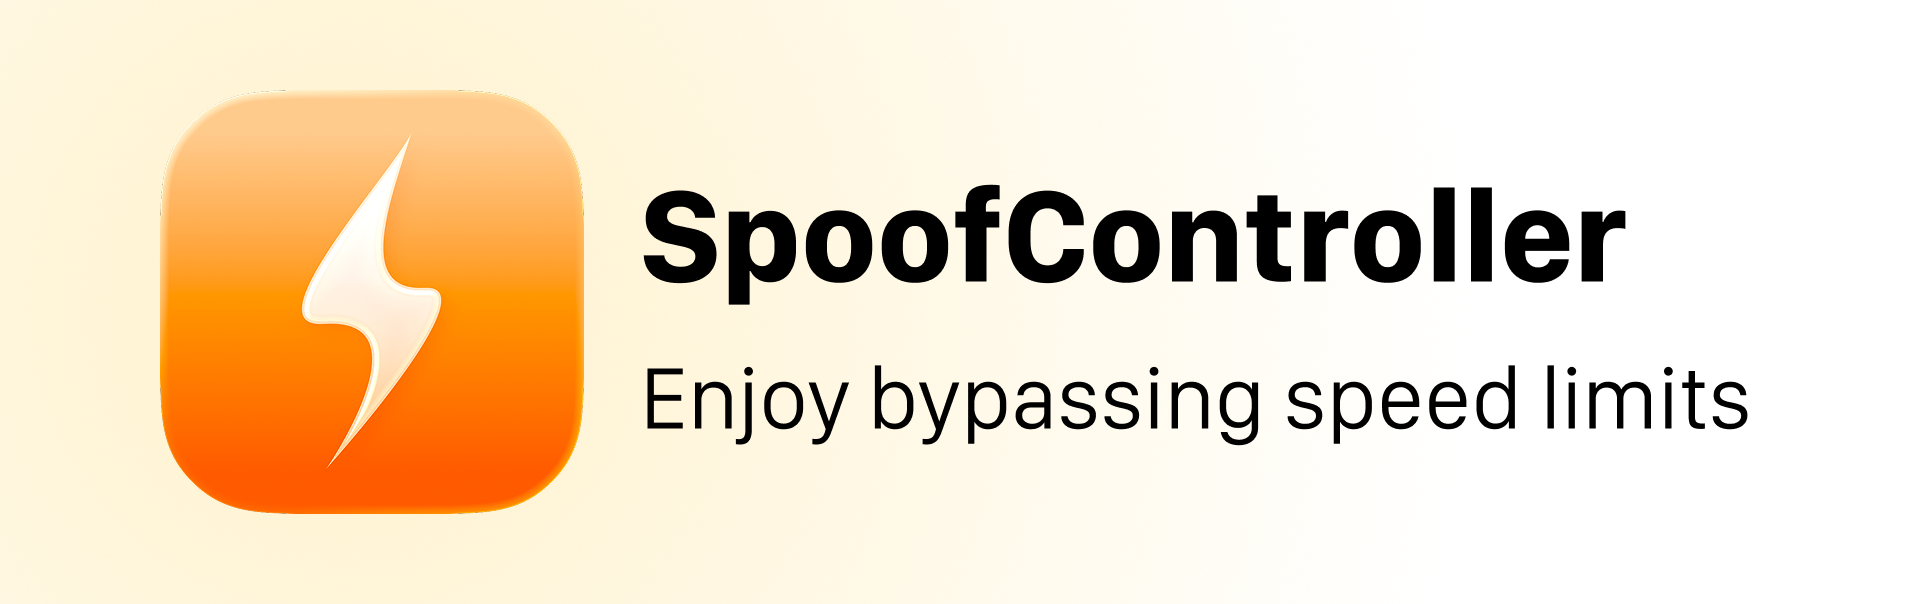
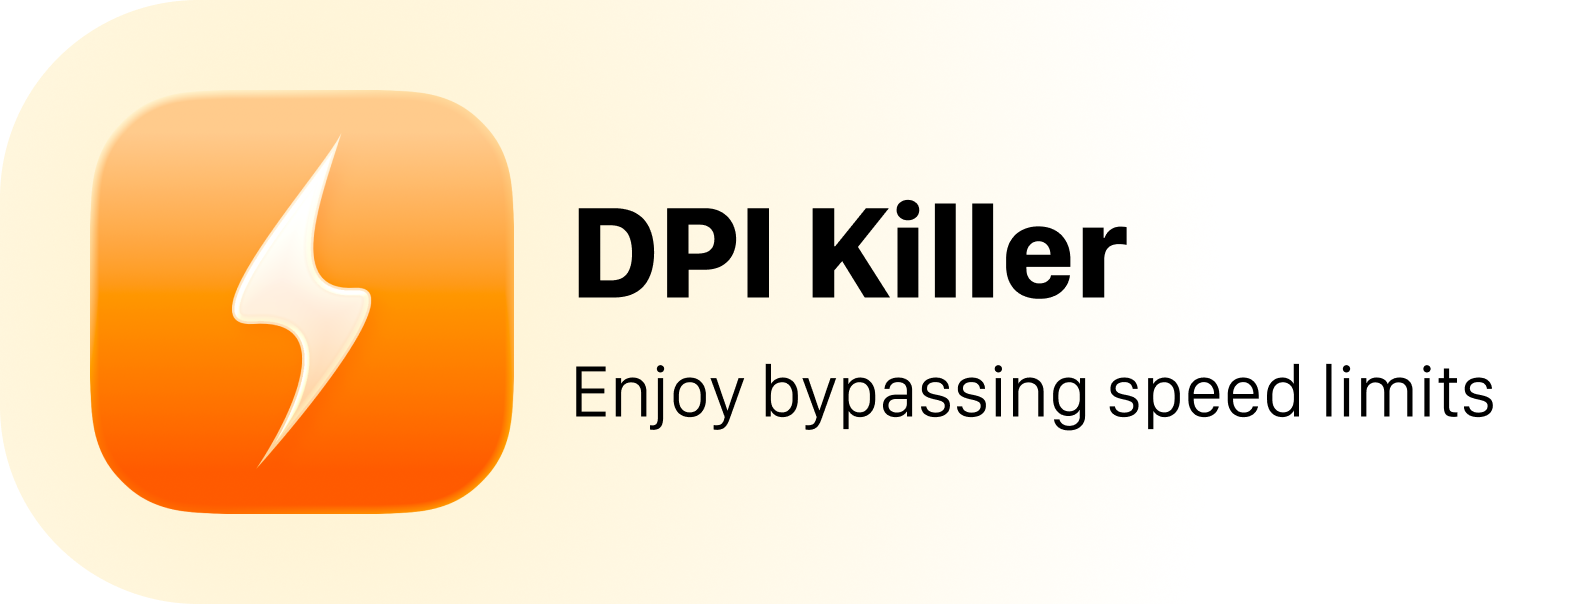
renamed to dpi killer

diff --git a/main.swift b/main.swift
@@ -181,9 +181,9 @@ class SettingsStore {
         let appPath = Bundle.main.bundlePath
         let script: String
         if enabled {
-            script = "tell application \"System Events\" to make login item at end with properties {path:\"\(appPath)\", hidden:false, name:\"SpoofController\"}"
+            script = "tell application \"System Events\" to make login item at end with properties {path:\"\(appPath)\", hidden:false, name:\"DPI Killer\"}"
         } else {
-            script = "tell application \"System Events\" to delete (every login item whose name is \"SpoofController\")"
+            script = "tell application \"System Events\" to delete (every login item whose name is \"DPI Killer\")"
         }
         
         let process = Process()
@@ -209,8 +209,8 @@ class SettingsStore {
 }
 
 // MARK: - Spoof Manager
-class SpoofManager {
-    static let shared = SpoofManager()
+class DPIKillerManager {
+    static let shared = DPIKillerManager()
     private(set) var process: Process?
     private var installProcess: Process?
     private(set) var isRunning = false
@@ -547,10 +547,10 @@ class SettingsWindowController: NSWindowController {
                                         dnsMode: SettingsStore.shared.dnsMode,
                                         dnsHttpsUrl: SettingsStore.shared.dnsHttpsUrl)
         
-        if SpoofManager.shared.isRunning {
-            SpoofManager.shared.stop()
+        if DPIKillerManager.shared.isRunning {
+            DPIKillerManager.shared.stop()
             DispatchQueue.main.asyncAfter(deadline: .now() + 0.5) {
-                SpoofManager.shared.start { _, _ in 
+                DPIKillerManager.shared.start { _, _ in 
                     (NSApp.delegate as? AppDelegate)?.refreshUI()
                 }
             }
@@ -636,7 +636,7 @@ class LoadingWindowController: NSWindowController {
         let visualEffect = NSVisualEffectView(frame: container.bounds); visualEffect.blendingMode = .behindWindow; visualEffect.material = .underWindowBackground; visualEffect.state = .active
         container.addSubview(visualEffect)
         if let icon = NSApp.applicationIconImage { let iconView = NSImageView(frame: NSRect(x: 130, y: 85, width: 80, height: 80)); iconView.image = icon; container.addSubview(iconView) }
-        let label = NSTextField(labelWithString: "SpoofController"); label.font = .systemFont(ofSize: 22, weight: .semibold); label.frame = NSRect(x: 0, y: 55, width: 340, height: 30); label.alignment = .center; container.addSubview(label)
+        let label = NSTextField(labelWithString: "DPI Killer"); label.font = .systemFont(ofSize: 22, weight: .semibold); label.frame = NSRect(x: 0, y: 55, width: 340, height: 30); label.alignment = .center; container.addSubview(label)
         let sublabel = NSTextField(labelWithString: L10n.shared.preparingBypass); sublabel.font = .systemFont(ofSize: 13, weight: .medium); sublabel.textColor = .secondaryLabelColor
         sublabel.frame = NSRect(x: 0, y: 35, width: 340, height: 20); sublabel.alignment = .center; self.sublabel = sublabel; container.addSubview(sublabel)
         let indicator = NSProgressIndicator(frame: NSRect(x: 100, y: 15, width: 140, height: 20)); indicator.style = .bar; indicator.isIndeterminate = true; indicator.startAnimation(nil); container.addSubview(indicator)
@@ -669,7 +669,7 @@ class AppDelegate: NSObject, NSApplicationDelegate {
     }
 
     func attemptStart() {
-        SpoofManager.shared.start { [weak self] success, error in
+        DPIKillerManager.shared.start { [weak self] success, error in
             self?.loadingWindow?.closeWithFade {
                 self?.loadingWindow = nil; self?.refreshUI()
                 if !success {
@@ -692,9 +692,9 @@ class AppDelegate: NSObject, NSApplicationDelegate {
     private func performInstallation() {
         if loadingWindow == nil { loadingWindow = LoadingWindowController() }
         loadingWindow?.updateStatus(L10n.shared.installing, showCancel: true)
-        loadingWindow?.cancelHandler = { [weak self] in SpoofManager.shared.cancelInstall(); self?.loadingWindow?.closeWithFade { self?.loadingWindow = nil; self?.refreshUI() } }
+        loadingWindow?.cancelHandler = { [weak self] in DPIKillerManager.shared.cancelInstall(); self?.loadingWindow?.closeWithFade { self?.loadingWindow = nil; self?.refreshUI() } }
         loadingWindow?.showWithFade()
-        SpoofManager.shared.install { [weak self] success, error in
+        DPIKillerManager.shared.install { [weak self] success, error in
             self?.loadingWindow?.closeWithFade {
                 self?.loadingWindow = nil; self?.refreshUI()
                 if success { let s = NSAlert(); s.messageText = L10n.shared.installComplete; s.informativeText = L10n.shared.installSuccess; NSApp.activate(ignoringOtherApps: true); s.runModal(); self?.attemptStart() }
@@ -713,7 +713,7 @@ class AppDelegate: NSObject, NSApplicationDelegate {
         DispatchQueue.main.async { [weak self] in
             guard let self = self else { return }
             if let button = self.statusItem?.button {
-                let isRunning = SpoofManager.shared.isRunning
+                let isRunning = DPIKillerManager.shared.isRunning
                 if self.iconCache[isRunning] == nil { self.iconCache[isRunning] = self.createStatusIcon(isRunning: isRunning) }
                 button.image = self.iconCache[isRunning]; button.imagePosition = .imageOnly
             }
@@ -730,10 +730,10 @@ class AppDelegate: NSObject, NSApplicationDelegate {
     }
 
     func setupMenu() {
-        let menu = NSMenu(); let status = SpoofManager.shared.isRunning ? L10n.shared.statusActive : L10n.shared.statusStopped
+        let menu = NSMenu(); let status = DPIKillerManager.shared.isRunning ? L10n.shared.statusActive : L10n.shared.statusStopped
         menu.addItem(NSMenuItem(title: status, action: nil, keyEquivalent: ""))
         menu.addItem(NSMenuItem.separator())
-        menu.addItem(NSMenuItem(title: SpoofManager.shared.isRunning ? L10n.shared.stop : L10n.shared.start, action: #selector(toggle), keyEquivalent: "t"))
+        menu.addItem(NSMenuItem(title: DPIKillerManager.shared.isRunning ? L10n.shared.stop : L10n.shared.start, action: #selector(toggle), keyEquivalent: "t"))
         menu.addItem(NSMenuItem(title: L10n.shared.settings, action: #selector(showSettings), keyEquivalent: ","))
         menu.addItem(NSMenuItem(title: L10n.shared.instructions, action: #selector(showHelp), keyEquivalent: "h"))
         menu.addItem(NSMenuItem.separator())
@@ -742,8 +742,8 @@ class AppDelegate: NSObject, NSApplicationDelegate {
     }
 
     @objc func toggle() {
-        if SpoofManager.shared.isRunning { SpoofManager.shared.stop() }
-        else { SpoofManager.shared.start { [weak self] s, e in if !s { let a = NSAlert(); a.messageText = L10n.shared.failedToStart; a.informativeText = e ?? "Check settings."; NSApp.activate(ignoringOtherApps: true); a.runModal() }; self?.refreshUI() } }
+        if DPIKillerManager.shared.isRunning { DPIKillerManager.shared.stop() }
+        else { DPIKillerManager.shared.start { [weak self] s, e in if !s { let a = NSAlert(); a.messageText = L10n.shared.failedToStart; a.informativeText = e ?? "Check settings."; NSApp.activate(ignoringOtherApps: true); a.runModal() }; self?.refreshUI() } }
         refreshUI()
     }
 
@@ -751,8 +751,8 @@ class AppDelegate: NSObject, NSApplicationDelegate {
     @objc func showHelp() { if helpWindow == nil { helpWindow = HelpWindowController() }; NSApp.activate(ignoringOtherApps: true); helpWindow?.showWindow(nil) }
     
     func applicationWillTerminate(_ notification: Notification) {
-        if let p = SpoofManager.shared.process { p.terminate(); p.waitUntilExit() }
-        SpoofManager.shared.stop()
+        if let p = DPIKillerManager.shared.process { p.terminate(); p.waitUntilExit() }
+        DPIKillerManager.shared.stop()
     }
 
     private func setupSignalHandlers() {
@@ -760,7 +760,7 @@ class AppDelegate: NSObject, NSApplicationDelegate {
         for sig in signals {
             signal(sig, SIG_IGN)
             let source = DispatchSource.makeSignalSource(signal: sig, queue: .main)
-            source.setEventHandler { SpoofManager.shared.stop(); exit(0) }
+            source.setEventHandler { DPIKillerManager.shared.stop(); exit(0) }
             source.resume()
         }
     }

diff --git a/README.md b/README.md
@@ -1,7 +1,7 @@
-# SpoofController ⚡
+# DPI Killer ⚡
 
 <p align="left">
-  <img src="assets/banner.png" alt="SpoofController Banner" width="800">
+  <img src="assets/banner.png" alt="DPI Killer Banner" width="800">
 </p>
 
 <p align="left">
@@ -14,7 +14,7 @@
 ## English 🇺🇸
 ### Professional macOS GUI for `spoofdpi` — Bypass DPI & Remove Throttling
 
-**SpoofController** is a lightweight, high-performance macOS application built to bypass DPI censorship, unblock websites, and remove ISP throttling.
+**DPI Killer** is a lightweight, high-performance macOS application built to bypass DPI censorship, unblock websites, and remove ISP throttling.
 
 > Love sharing internet from your phone but hate it when your ISP throttles the speed? Many solutions have been tried over the years. This one is simply convenient for Mac users. If you're on Windows... well, my condolences. 😉
 
@@ -29,19 +29,19 @@ It is a **GoodbyeDPI Mac alternative** that restores access to YouTube and block
 - **Advanced Settings**: Configure TTL and Window Size values for specialized bypass scenarios.
 
 ### Setup
-1. **Download**: Get `.dmg` from [Releases](https://github.com/iddictive/SpoofController/releases).
+1. **Download**: Get `.dmg` from [Releases](https://github.com/iddictive/DPIKiller/releases).
 2. **Install**: Drag to `Applications`.
 3. **Run**: Opens with auto-setup.
 
 ### VPN Compatibility
-To use SpoofController alongside a VPN (like Shadowrocket, AdGuard, etc.):
-1. **Disable `Use system-wide proxy`** in SpoofController Settings.
+To use DPI Killer alongside a VPN (like Shadowrocket, AdGuard, etc.):
+1. **Disable `Use system-wide proxy`** in DPI Killer Settings.
 2. Configure your VPN to use `127.0.0.1:8080` (or your custom port) as the **upstream (parent) proxy**.
-3. This allows the VPN to handle routing while SpoofController handles DPI bypassing.
+3. This allows the VPN to handle routing while DPI Killer handles DPI bypassing.
 
 ### Uninstall
 ```bash
-curl -sL https://raw.githubusercontent.com/iddictive/SpoofController/main/scripts/uninstall.sh | bash
+curl -sL https://raw.githubusercontent.com/iddictive/DPIKiller/main/scripts/uninstall.sh | bash
 ```
 
 ---
@@ -50,7 +50,7 @@ curl -sL https://raw.githubusercontent.com/iddictive/SpoofController/main/script
 ## Русский 🇷🇺
 ### Нативный GUI для `spoofdpi` — Обход DPI и снятие ограничений скорости
 
-**SpoofController** — легкое и производительное приложение для macOS на базе `spoofdpi`, которое обходит блокировки провайдеров (DPI) и убирает замедление трафика. 
+**DPI Killer** — легкое и производительное приложение для macOS на базе `spoofdpi`, которое обходит блокировки провайдеров (DPI) и убирает замедление трафика. 
 
 > Любите раздавать интернет с телефона, но провайдер режет скорость? Давно было много разных решений, но это — просто удобное для тех, у кого Mac. Для тех, у кого Windows — соболезную. 😉
 
@@ -65,19 +65,19 @@ curl -sL https://raw.githubusercontent.com/iddictive/SpoofController/main/script
 - **Расширенные настройки**: Установка значений TTL и Window Size для специфических сценариев обхода.
 
 ### Установка
-1. **Скачать**: `.dmg` со страницы [Релизов](https://github.com/iddictive/SpoofController/releases).
+1. **Скачать**: `.dmg` со страницы [Релизов](https://github.com/iddictive/DPIKiller/releases).
 2. **Установить**: Перетянуть в `Applications`.
 3. **Запуск**: Готов к работе сразу.
 
 ### Совместимость с VPN
-Чтобы использовать SpoofController вместе с VPN (Shadowrocket, AdGuard и т.д.):
-1. **Отключите `Использовать системный прокси`** в настройках SpoofController.
+Чтобы использовать DPI Killer вместе с VPN (Shadowrocket, AdGuard и т.д.):
+1. **Отключите `Использовать системный прокси`** в настройках DPI Killer.
 2. В самом VPN-клиенте укажите `127.0.0.1:8080` (или ваш порт) в качестве **родительского (upstream) прокси**.
-3. Таким образом VPN будет отвечать за маршрутизацию, а SpoofController — за обход DPI.
+3. Таким образом VPN будет отвечать за маршрутизацию, а DPI Killer — за обход DPI.
 
 ### Удаление
 ```bash
-curl -sL https://raw.githubusercontent.com/iddictive/SpoofController/main/scripts/uninstall.sh | bash
+curl -sL https://raw.githubusercontent.com/iddictive/DPIKiller/main/scripts/uninstall.sh | bash
 ```
 
 ---
